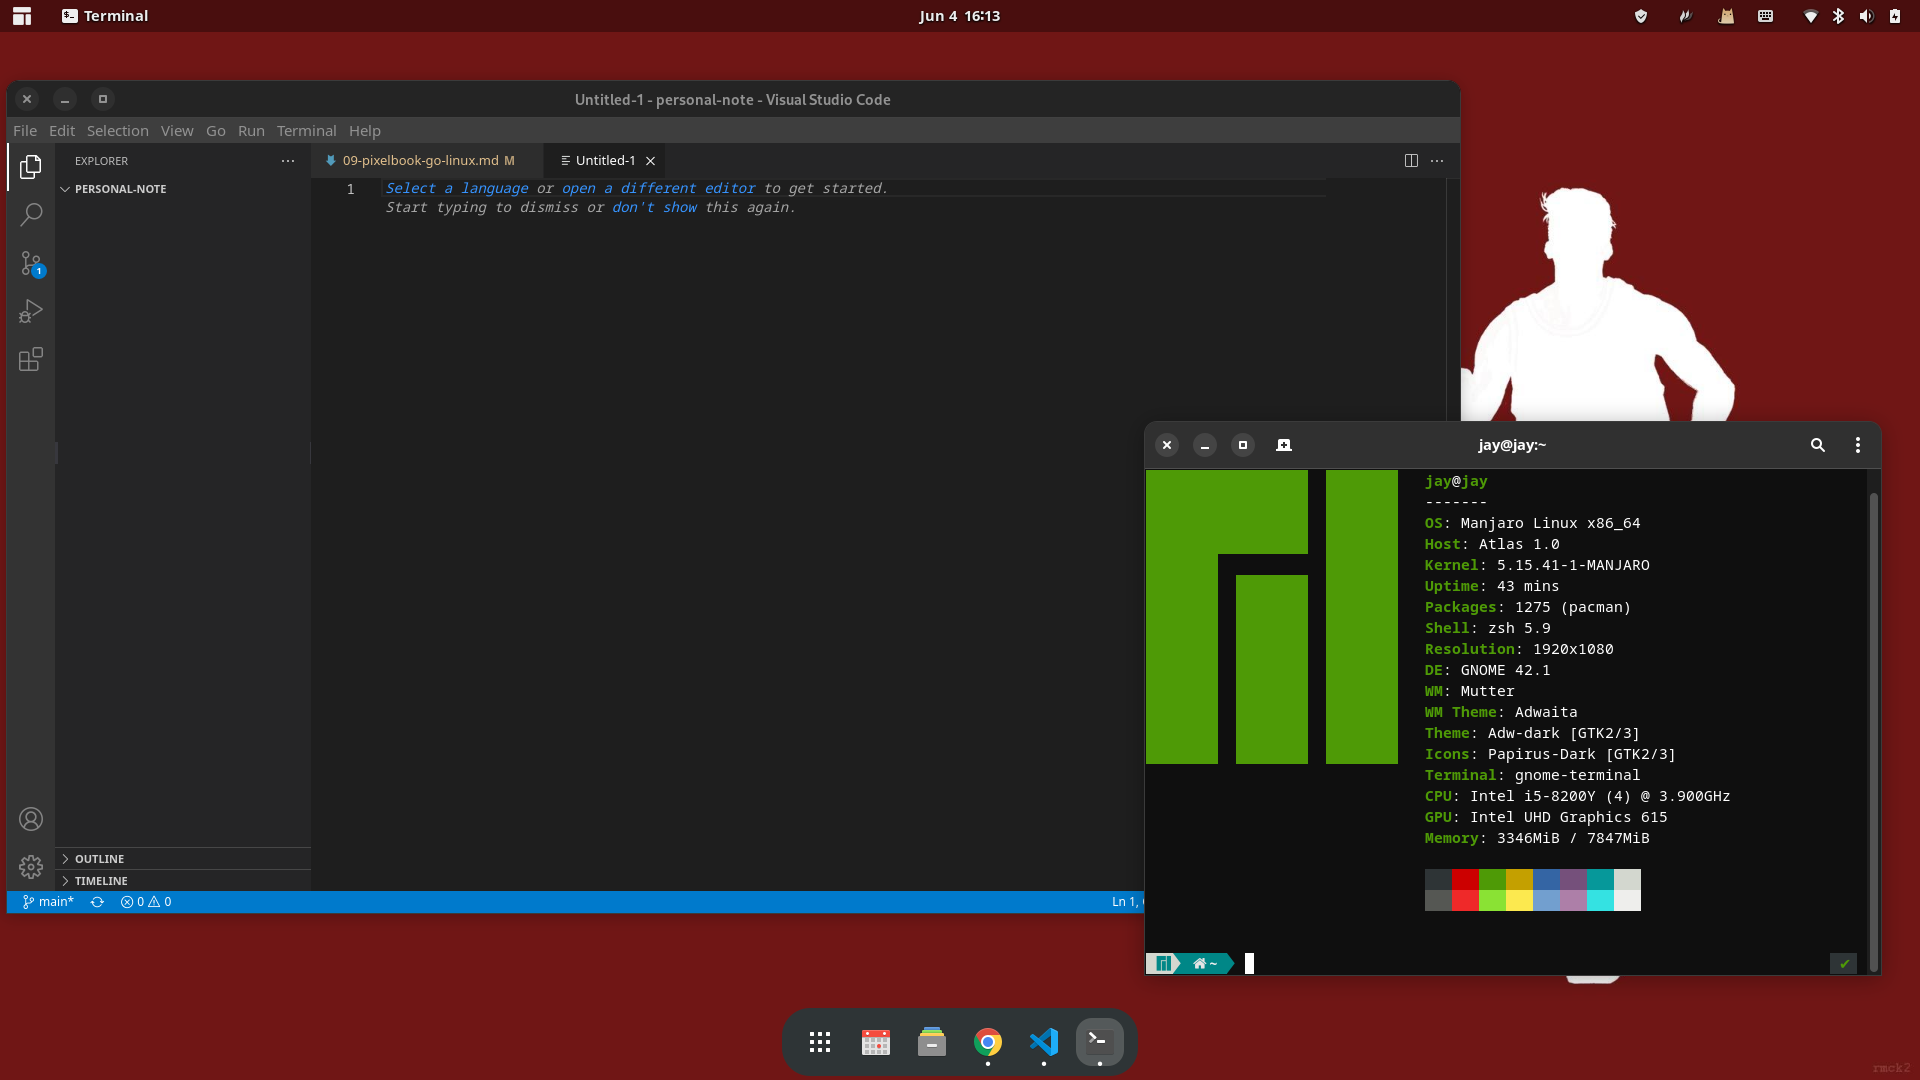
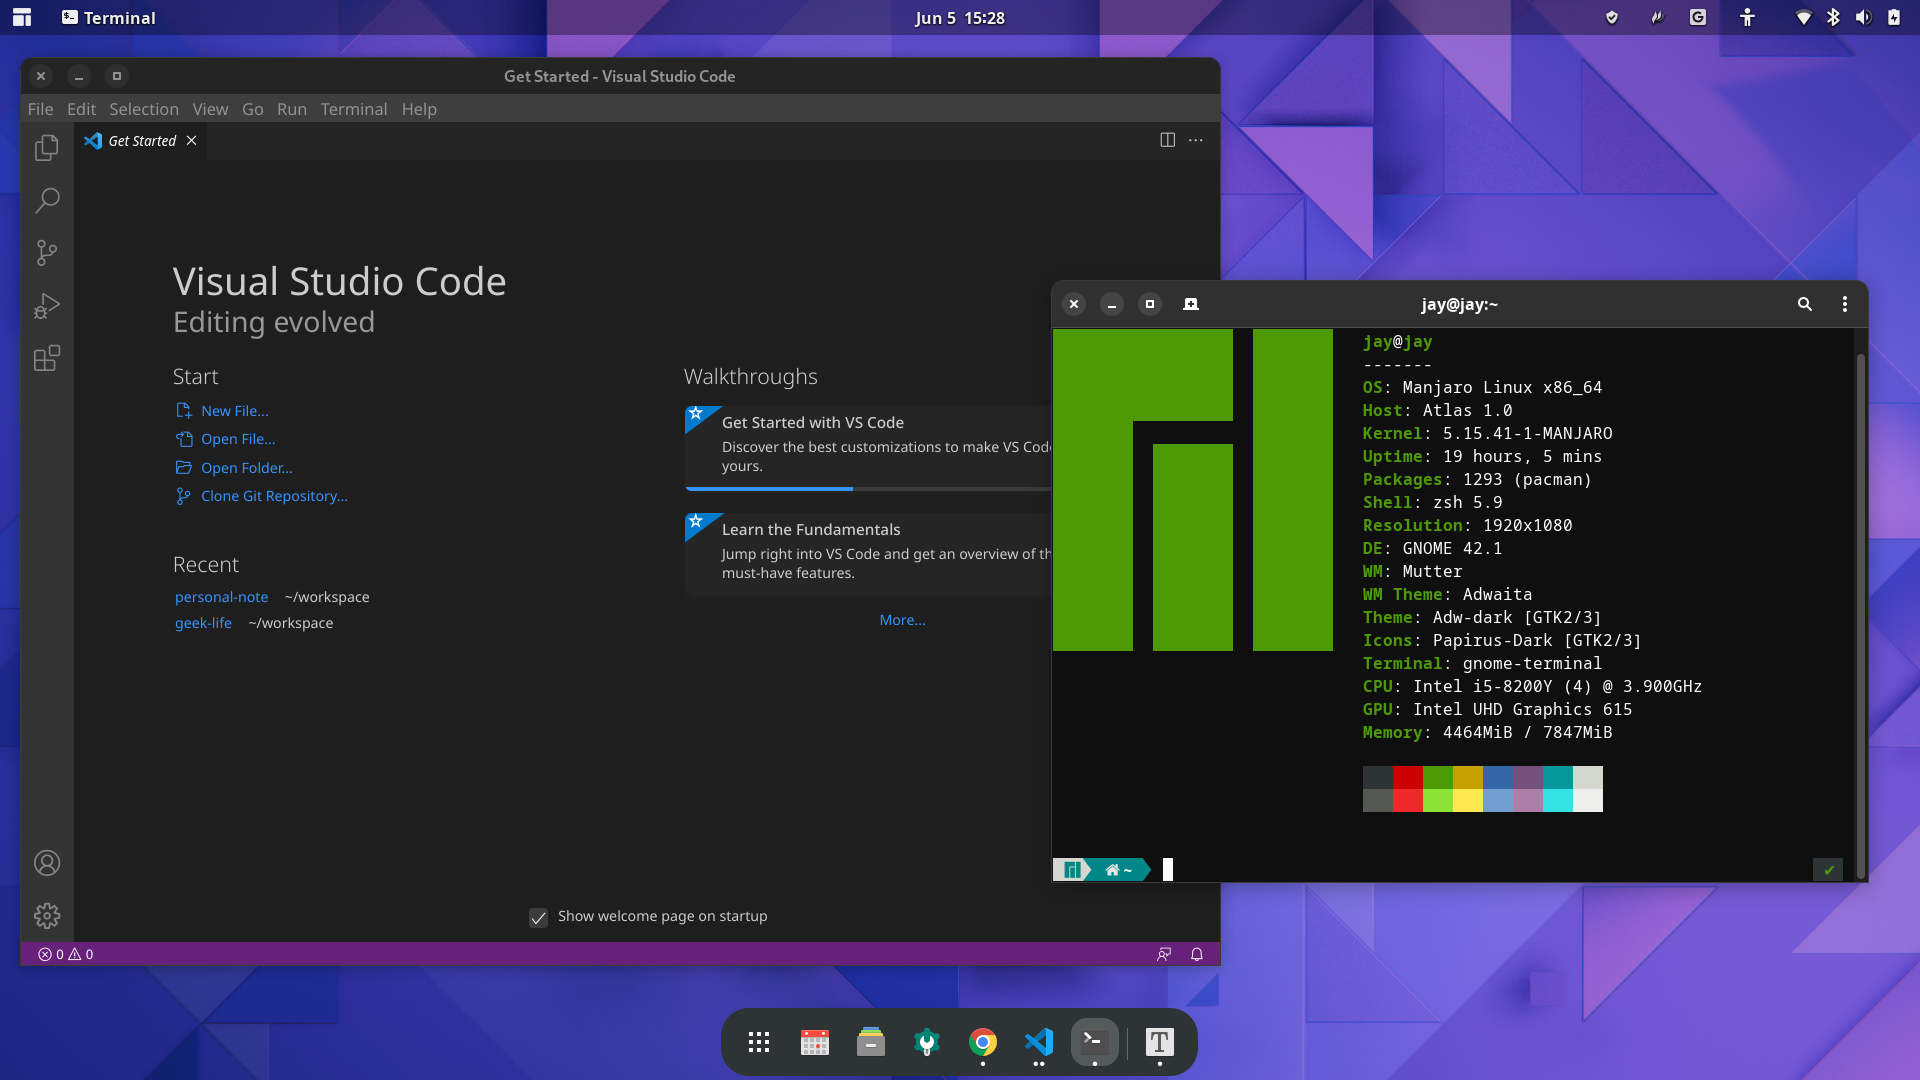
update

diff --git a/articles/pixelbook-go-linux.md b/articles/pixelbook-go-linux.md
@@ -194,4 +194,8 @@ TODO：以下都需要一些图片
 * 声音问题
 * 触控板
 
+
+
+以下是最终成品截图：
+
 ![Manjaro](../assets/pixelbook-go-linux/manjaro-screenshot.png)
